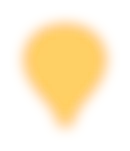
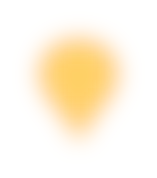
THE BTC CARD — group 2: the motion reviewed + the unlock proved
THE FLARE brighter up the panels; the effect draws the CLEAN master (balloon + coins filled in) as its opaque base — light added
'lighter' on the transparent canvas dimmed outside the old patch (two dark fins beside the basket) and the 560 x 540 patch overflowed
the shared atlas in a lobby of the 8 sighting cards; the bloom after the balloon, softer + wider; the rigging cut to its own pixels
(the real clouds between the ropes kept); the coins then their glints (one blend change); the sheen in 12 slices; the still ring hugs
the envelope. THE UNLOCK unchanged, proved on the emulators (sightings.test.mjs): a tap while a ₿ balloon flies grants card-sg-btc +
emb-sg-btc once; a tap with no ₿ balloon up never. Bench (4x CPU, 402@3): full card + strip 59.5 fps; 8 of the strips 60.0;
the 8 sighting cards 55 GPU / 57.8 software. Shots: 390 / 402 / 430 @3, WebKit 402x874 @3, 1440x900, a burst, the still.

Changed region(s): [[0.1231, 0.106, 0.8615, 0.8742]]

diff --git a/js/fx/btc-card.js b/js/fx/btc-card.js
@@ -59,21 +59,32 @@ export function btcState(s, t, still) {
 function draw(c, s, t, Q) {
   const S = BTC, full = !!s.opts.full, still = !!Q.still, rad = s.opts.radius || 12, calm = full ? 1 : 0.88;
   const M = btcMap(s.w, s.h, full ? S.full : S.strip);
-  const patch = img('btc-patch'), bal = img('btc-balloon');
+  const base = img('btc-clean'), bal = img('btc-balloon');
   const st = btcState(s, t, still), b = st.b * calm;
   c.save(); rrect(c, 0, 0, s.w, s.h, rad); c.clip();
   c.translate(M.ox, M.oy); c.scale(M.k, M.k);   // (from here on: ART px)
   const art = 1 / M.k;                            // (one device-independent px in art px — for the thin rims)
-  if (patch && bal) {
-    // 0 · THE PATCH: the sky behind the balloon + the coins (opaque, feathered — the material's own pixels round its edge)
+  if (base && bal) {
+    // 0 · THE BASE: the CLEAN master (the balloon + the coins filled in — they move on top), opaque, exactly where the material shows the master.
+    //     WHY opaque: light drawn 'lighter' on the TRANSPARENT effect canvas
+    //     is composited over the page with its own alpha — it adds fully only where the canvas is opaque underneath (the patch) and a little
+    //     less elsewhere, so the patch's outline showed as two dark fins beside the basket. Over an opaque base every light adds the same.
+    //     (The full card's name zone + foot darkening, the material's CSS gradients, drawn here too.)
     c.globalCompositeOperation = 'source-over'; c.globalAlpha = 1;
-    c.drawImage(patch, S.patch[0], S.patch[1], S.patch[2], S.patch[3]);
+    c.drawImage(base, 0, 0, 1280, 720);   // (one external texture — the shared atlas keeps its room)
+    if (full) {
+      const x0 = -M.ox / M.k, y0 = -M.oy / M.k, W0 = s.w / M.k, H0 = s.h / M.k;
+      const gl = c.createLinearGradient(x0, 0, x0 + W0, 0); gl.addColorStop(0, 'rgba(7,4,18,0.5)'); gl.addColorStop(0.28, 'rgba(7,4,18,0.3)'); gl.addColorStop(0.47, 'rgba(7,4,18,0)'); gl.addColorStop(1, 'rgba(7,4,18,0)');
+      c.fillStyle = gl; c.fillRect(x0, y0, W0, H0);
+      const gb = c.createLinearGradient(0, y0 + H0, 0, y0); gb.addColorStop(0, 'rgba(6,3,14,0.62)'); gb.addColorStop(0.12, 'rgba(6,3,14,0.25)'); gb.addColorStop(0.21, 'rgba(6,3,14,0)'); gb.addColorStop(1, 'rgba(6,3,14,0)');
+      c.fillStyle = gb; c.fillRect(x0, y0, W0, H0);
+    }
     c.globalCompositeOperation = 'lighter';
     // 1 · THE GLINTS (Grok's coins plate): two copies drifting up + twinkling, crossfaded (behind the balloon)
     const gl = img('btc-glints');
     if (gl) {
       const [gx, gy, gw, gh] = S.glints;
-      for (let j = 0; j < 2; j++) {
+      for (let j = 0; j < (full ? 2 : 1); j++) {
         const v = still ? 0.5 : fract(t / 22 + j / 2), tw = still ? 1 : 0.75 + 0.25 * Math.sin(t * 2.3 + j * 2.1);
         c.globalAlpha = Math.sin(v * Math.PI) * (0.36 + 0.3 * b) * tw * st.coinIn * calm;
         c.drawImage(gl, gx + (j ? 14 : -8), gy + 40 - v * 80, gw, gh);
@@ -95,8 +106,10 @@ function draw(c, s, t, Q) {
       }
     }
     // 3 · THE COINS: rising past the balloon, spinning (scaleX), a rim edge-on, a glint face-on (in front of the glints, behind the balloon)
-    const cs = img('btc-coins');
+    // (the coins first, all 'source-over', then their glints all 'lighter' — a blend change flushes the GPU batch: never twice a coin)
+    const cs = img('btc-coins'), glints = [];
     if (cs) {
+      c.globalCompositeOperation = 'source-over';
       S.coins.forEach(([cx, cy, r], i) => {
         const P = 13 + (i * 2.7) % 5, ph = (i * 0.37) % 1;
         const u = still ? 0.5 : fract(t / P + ph), rise = (0.5 - u) * 210, x = cx + (still ? 0 : 6 * Math.sin(t * 0.4 + i * 1.7)), y = cy + rise;
@@ -104,28 +117,31 @@ function draw(c, s, t, Q) {
         if (!full) a *= 1 - smooth(0.82, 0.9, (M.ox + x * M.k) / s.w) * smooth(0.4, 0.55, (M.oy + y * M.k) / s.h);   // (the strip: clear of the gem's corner)
         if (a < 0.02) return;
         const spin = still ? 0 : t * (Math.PI * 2) / (3.4 + i * 0.55) + i * 1.3, sx = Math.cos(spin), w = Math.max(0.1, Math.abs(sx));
-        c.globalCompositeOperation = 'source-over'; c.globalAlpha = a;
+        c.globalAlpha = a;
         c.save(); c.translate(x, y); c.scale(sx < 0 ? -w : w, 1);
         c.drawImage(cs, i * S.cell, 0, S.cell, S.cell, -S.cell / 2, -S.cell / 2, S.cell, S.cell); c.restore();
         if (w < 0.3) { c.fillStyle = 'rgb(214,150,52)'; c.globalAlpha = a * (1 - w / 0.3); c.fillRect(x - Math.max(1.2 * art, 2), y - r * 0.96, Math.max(2.4 * art, 4), r * 1.92); }
-        c.globalCompositeOperation = 'lighter';
         const face = still ? 0.6 : smooth(0.93, 1, w);
-        if (face > 0.02) stamp(c, sparkle('255,236,180', 48), x - r * 0.42, y - r * 0.5, r * 1.7, a * face * 0.85);
+        if (face > 0.02) glints.push([x - r * 0.42, y - r * 0.5, r * 1.7, a * face * 0.85]);
       });
+      c.globalCompositeOperation = 'lighter';
+      for (const [gx, gy, d, a] of glints) stamp(c, sparkle('255,236,180', 48), gx, gy, d, a);
     }
     // 4 · THE BALLOON + everything that is part of it (one transform: the sway + the reveal's rise)
     const [px, py] = S.pivot;
     c.save();
     c.translate(px + st.dx, py + st.dy + st.rise * 300); c.rotate(st.rot); c.translate(-px, -py);
-    c.globalCompositeOperation = 'lighter';
-    const bloom = img('btc-bloom');
-    if (bloom && b > 0.01) { c.globalAlpha = Math.min(1, (0.5 + 0.35 * st.big) * b) * st.fade; c.drawImage(bloom, S.bloom[0], S.bloom[1], S.bloom[2], S.bloom[3]); }
     c.globalCompositeOperation = 'source-over'; c.globalAlpha = st.fade;
     c.drawImage(bal, S.balloon[0], S.balloon[1], S.balloon[2], S.balloon[3]);
     c.globalCompositeOperation = 'lighter';
+    // (the bloom AFTER the balloon: drawn under it, the rigging cut-out's sky edges stayed un-bloomed — two dark wedges beside the basket)
+    const bloom = img('btc-bloom');
+    if (bloom && b > 0.01) { c.globalAlpha = Math.min(1, (0.75 + 0.25 * st.big) * b) * st.fade; c.drawImage(bloom, S.bloom[0], S.bloom[1], S.bloom[2], S.bloom[3]); }
+    // (the burner's light in the air round the mouth — fills the V under the envelope's sides, so the bloom's taper never reads as a shadow)
+    if (b > 0.01) stamp(c, glow('255,150,60', 0.08, 64), S.mouth[0], S.mouth[1] - 30, 560, 0.42 * b * st.fade, 500);
     // THE FLARE: the inside light (the envelope's own shape) + the ₿ blazing
     const lit = img('btc-lit'), mk = img('btc-mark');
-    if (lit && b > 0.01) { c.globalAlpha = Math.min(1, 0.92 * b) * st.fade; c.drawImage(lit, S.lit[0], S.lit[1], S.lit[2], S.lit[3]); }
+    if (lit && b > 0.01) { c.globalAlpha = Math.min(1, 1.08 * b) * st.fade; c.drawImage(lit, S.lit[0], S.lit[1], S.lit[2], S.lit[3]); }
     // (the ₿: it blazes in a burn; the block's pulse rides the ring's first beat)
     const pulse = st.blockAge < 0.9 ? Math.exp(-(((st.blockAge - 0.25) / 0.2) ** 2)) : 0;
     if (mk) { const a = Math.min(1, 0.85 * b + 0.5 * pulse) * st.fade; if (a > 0.01) { c.globalAlpha = a; c.drawImage(mk, S.mark[0], S.mark[1], S.mark[2], S.mark[3]); } }
@@ -134,9 +150,9 @@ function draw(c, s, t, Q) {
     if (shn && !still) {
       const P = 7.3, e = fract((t + ((s.opts.seed || 0) * 1.7)) / P) * P;
       if (e < 1.1) {
-        const [sx0, sy0, sw, sh] = S.sheen, n = 24, cw = shn.width / n, mid = -0.25 + (e / 1.1) * 1.5;
+        const [sx0, sy0, sw, sh] = S.sheen, n = 12, cw = shn.width / n, mid = -0.25 + (e / 1.1) * 1.5;
         for (let i = 0; i < n; i++) {
-          const f = (i + 0.5) / n, a = Math.max(0, 1 - Math.abs(f - mid) / 0.16) * 0.6 * calm * st.fade;
+          const f = (i + 0.5) / n, a = Math.max(0, 1 - Math.abs(f - mid) / 0.18) * 0.6 * calm * st.fade;
           if (a < 0.02) continue;
           c.globalAlpha = a; c.drawImage(shn, i * cw, 0, cw, shn.height, sx0 + (i * sw) / n, sy0, sw / n, sh);
         }
@@ -145,7 +161,7 @@ function draw(c, s, t, Q) {
     // the burner flame flares: Grok's glow plate on the REAL burner (its core moved onto the flame), + a white-hot core
     const fp = img('btc-flame');
     if (fp && b > 0.01 && full) {
-      const k = (0.3 + 0.1 * b + 0.06 * st.big) * 2, [fx, fy] = S.burner, [cx, cy] = S.flame.core;
+      const k = (0.17 + 0.07 * b + 0.05 * st.big) * 2, [fx, fy] = S.burner, [cx, cy] = S.flame.core;
       c.globalAlpha = Math.min(1, b * 0.95) * st.fade; c.drawImage(fp, fx - cx * k, fy + 6 - cy * k, S.flame.size * k, S.flame.size * k);
     }
     if (b > 0.01) { c.globalAlpha = 1; stamp(c, glow('255,250,230', 0.4, 32), S.burner[0], S.burner[1], 34 + 18 * b, b * st.fade); }

diff --git a/js/fx/btc-specs.js b/js/fx/btc-specs.js
@@ -23,11 +23,11 @@ export const BTC = Object.freeze({
   pivot: [915, 290],                 // the sway turns round the envelope's middle
   // the layers' boxes (where the build cut them)
   balloon: [751, 74, 328, 471],      // btc-balloon.webp (the cut-out: envelope + rigging + basket)
-  patch: [640, 40, 560, 540],        // btc-patch.webp (the sky behind the balloon + the coins)
+  patch: [640, 40, 560, 540],        // (the region the build filled in — btc-clean.webp = the master with the balloon + the coins gone)
   lit: [751, 74, 328, 411],          // btc-lit.webp (the inside light — the envelope's shape)
   mark: [836, 148, 160, 199],        // btc-mark.webp (the ₿ blazing)
   sheen: [868, 180, 96, 135],        // btc-sheen.webp (the ₿ alone)
-  bloom: [655, -22, 520, 603],       // btc-bloom.webp (a quarter size — drawn into this box)
+  bloom: [601, -76, 628, 711],       // btc-bloom.webp (a quarter size, blurred wide — drawn into this box)
   flame: { core: [148, 198.2], size: 300 },   // btc-flame.webp (Grok's glow plate, halved): its hot core in its own px — moved onto `burner`
   glints: [576, 43, 636, 646],       // btc-glints.webp (halved) — Grok's coin-edge glints + star sparks
   water: [0, 618, 1280, 102],        // btc-water.webp (halved) — the harbor's reflections
